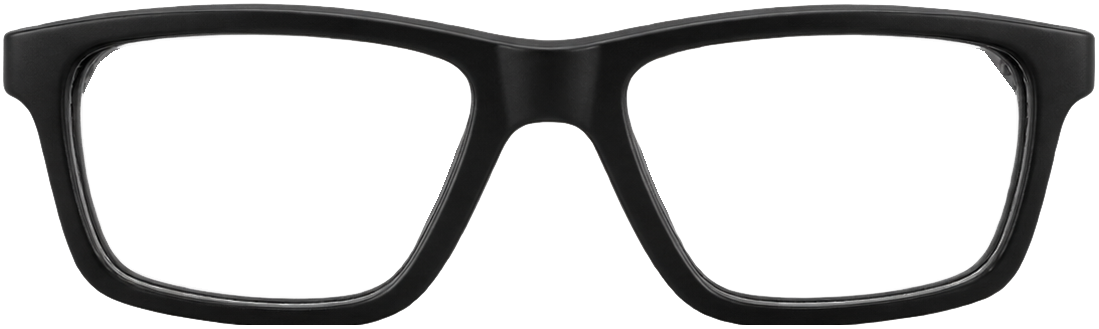
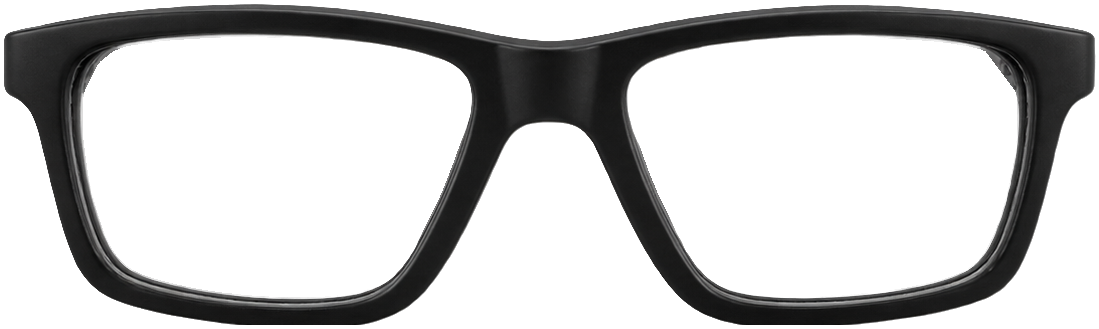
Versão 6: borda sem halo

diff --git a/app.js b/app.js
@@ -133,7 +133,7 @@ async function carregarFoto(base) {
   const carregador = new THREE.TextureLoader();
   const tex = (u) => new Promise((ok, erro) => carregador.load(u, (t) => { t.colorSpace = THREE.SRGBColorSpace; t.anisotropy = 4; ok(t); }, undefined, erro));
   const [info, frente, lente, haste] = await Promise.all([
-    fetch(base + '.json').then((r) => r.json()), tex(base + '-frente.png'), tex(base + '-lente.png'), tex(base + '-haste.png'),
+    fetch(base + '.json').then((r) => r.json()), tex(base + '-frente.png?v=6'), tex(base + '-lente.png'), tex(base + '-haste.png?v=6'),
   ]);
   lente.colorSpace = THREE.NoColorSpace;
   return (cacheFoto[base] = { info, frente, lente, haste });

diff --git a/sw.js b/sw.js
@@ -1,6 +1,6 @@
 // Service worker mínimo: guarda a "casca" do app para abrir rápido e permitir instalar.
-const CACHE = 'oioai-t10-v5';
-const CASCA = ['./', './index.html', './app.js?v=5', './manifest.webmanifest', './icone-192.png', './icone-512.png'];
+const CACHE = 'oioai-t10-v6';
+const CASCA = ['./', './index.html', './app.js?v=6', './manifest.webmanifest', './icone-192.png', './icone-512.png'];
 self.addEventListener('install', (e) => e.waitUntil(caches.open(CACHE).then((c) => c.addAll(CASCA))));
 self.addEventListener('activate', (e) => e.waitUntil(
   caches.keys().then((ks) => Promise.all(ks.filter((k) => k !== CACHE).map((k) => caches.delete(k))))

diff --git a/index.html b/index.html
@@ -79,7 +79,7 @@
 <body>
   <header>
     <b>ÔIÔ <span>AI</span></b>
-    <small>Prova ao vivo · protótipo T10 · <b style="color:#00A4A8">versão 5</b></small>
+    <small>Prova ao vivo · protótipo T10 · <b style="color:#00A4A8">versão 6</b></small>
   </header>
 
   <div class="palco">
@@ -111,6 +111,6 @@
     </div>
   </div>
 
-  <script type="module" src="app.js?v=5"></script>
+  <script type="module" src="app.js?v=6"></script>
 </body>
 </html>

diff --git a/LEIA.md b/LEIA.md
@@ -27,3 +27,4 @@ Link público (GitHub Pages, repositório `oioaisystem/prova-ao-vivo`, público)
 | 27/11/2026 | PC (navegador do app Claude), foto 299×303 | foto | 60 | ~11–15 (GPU) | Armação bem posicionada nos 4 modelos; carga do modelo ~0,8 s |
 | 27/11/2026 | PC do dono, Chrome 158, Windows | webcam frontal 1280×720 | 60 | 15,6 média (2.335 quadros, GPU) | Carga do modelo 0,7 s. DP estimada 56,4 mm e rosto 131 mm (conferir com a receita na T11) |
 | 27/11/2026 | Celular Android do dono (Chrome), v2 | frontal 1280×720 | 17 | 57 (GPU) | Armação bem posicionada de frente. Lento: na v3 o celular passa a usar câmera de 640×480 e desenho em 1x |
+| 27/11/2026 | Celular Android do dono (Chrome), v5, peça real 01 | frontal 640×480 | 22–25 | 39–45 (GPU) | Giro da cabeça acompanha bem (3/4, para cima, para baixo); perde o rosto só de perfil total. Contorno claro na borda da foto: corrigido na v6. DP estimada varia 45–68 mm conforme a pose (só vale de frente → T11) |
